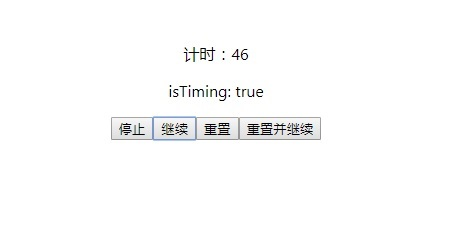
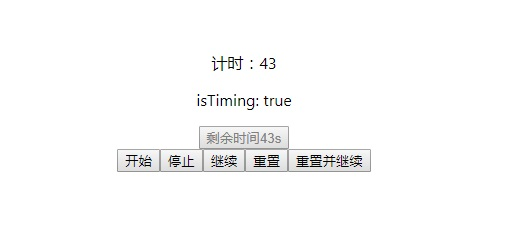
1.  修改测试demo为获取验证码 2.  修改图片 3.  修改计时器不能重复start 4.  修改版本号

Changed region(s): [[0.2178, 0.3621, 0.7156, 0.7543], [0.4044, 0.181, 0.56, 0.3017]]

diff --git a/example/no-ts/src/TimingComponent.js b/example/no-ts/src/TimingComponent.js
@@ -1,40 +1,45 @@
 import React from "react";
 
 export default class TimingComponent extends React.Component {
-  componentDidMount() {
-    const { timer } = this.props;
-    if (timer) {
-      timer.start();
-    }
-  }
+    state = {
+        isGetting: false
+    };
 
-  render() {
-    const { value, isTiming } = this.props.timer;
-    return (
-      <div>
-        <p>计时：{value}</p>
-        <p>isTiming: {isTiming + ""}</p>
-        <input
-          type="button"
-          value="停止"
-          onClick={() => this.props.timer.cancel()}
-        />
-        <input
-          type="button"
-          value="继续"
-          onClick={() => this.props.timer.continue()}
-        />
-        <input
-          type="button"
-          value="重置"
-          onClick={() => this.props.timer.reset()}
-        />
-        <input
-          type="button"
-          value="重置并继续"
-          onClick={() => this.props.timer.reset(true)}
-        />     
-      </div>
-    );
-  }
+    componentDidMount() {
+        const { timer } = this.props;
+        if (timer) {
+            // timer.start();
+        }
+    }
+    onGetCode = () => {
+        this.setState({ isGetting: true });
+        setTimeout(() => {
+            this.props.timer.start();
+            this.setState({
+                isGetting: false
+            });
+        }, 1500);
+    };
+
+    render() {
+        const { value, isTiming } = this.props.timer;
+        const { isGetting } = this.state;
+
+        const valueText = isGetting ? "获取中" : isTiming ? "剩余时间" + value + "s" : "获取验证码";
+
+        return (
+            <div>
+                <p>计时：{value}</p>
+                <p>isTiming: {isTiming + ""}</p>
+
+                <input disabled={isTiming || isGetting ? true : false} type="button" value={valueText} onClick={this.onGetCode} />
+                <br />
+                <input type="button" value="开始" onClick={() => this.props.timer.start()} />
+                <input type="button" value="停止" onClick={() => this.props.timer.cancel()} />
+                <input type="button" value="继续" onClick={() => this.props.timer.continue()} />
+                <input type="button" value="重置" onClick={() => this.props.timer.reset()} />
+                <input type="button" value="重置并继续" onClick={() => this.props.timer.reset(true)} />
+            </div>
+        );
+    }
 }

diff --git a/example/no-ts/src/time.js b/example/no-ts/src/time.js
@@ -72,12 +72,20 @@ const withTimer = (Component, initialOptions = defaultOptions) => {
         };
 
         start = (opt = {}) => {
-            this.options = Object.assign({}, defaultOptions, initialOptions, opt);
-            const ended = this.judge(this.state.value);
-            if (!ended) {
-                this.setState({ isTiming: true });
-                this.timer.start(this.nextPeriod);
+            if (this.state.isTiming) {
+                return;
             }
+            this.options = Object.assign({}, defaultOptions, initialOptions, opt);
+
+            this.setState(
+                {
+                    value: this.options.start
+                },
+                () => {
+                    this.setState({ isTiming: true });
+                    this.timer.start(this.nextPeriod);
+                }
+            );
         };
 
         reset = autoStart => {

diff --git a/src/index.js b/src/index.js
@@ -72,12 +72,20 @@ const withTimer = (Component, initialOptions = defaultOptions) => {
         };
 
         start = (opt = {}) => {
-            this.options = Object.assign({}, defaultOptions, initialOptions, opt);
-            const ended = this.judge(this.state.value);
-            if (!ended) {
-                this.setState({ isTiming: true });
-                this.timer.start(this.nextPeriod);
+            if (this.state.isTiming) {
+                return;
             }
+            this.options = Object.assign({}, defaultOptions, initialOptions, opt);
+
+            this.setState(
+                {
+                    value: this.options.start
+                },
+                () => {
+                    this.setState({ isTiming: true });
+                    this.timer.start(this.nextPeriod);
+                }
+            );
         };
 
         reset = autoStart => {

diff --git a/example/no-ts/src/App.js b/example/no-ts/src/App.js
@@ -6,8 +6,8 @@ import TimingComponent from "./TimingComponent";
 import withTimer from "./time";
 
 const TimingCom = withTimer(TimingComponent, {
-    interval: 100,
-    start: 30,
+    interval: 50,
+    start: 60,
     end: 0
 });
 
@@ -20,7 +20,7 @@ class App extends Component {
                     marginTop: 120
                 }}
             >
-                <TimingCom onTimingEnd={val => alert("ended:" + val)} />
+                <TimingCom />
             </div>
         );
     }

diff --git a/README.md b/README.md
@@ -90,43 +90,49 @@ TimingComponent.js
 import React from "react";
 
 export default class TimingComponent extends React.Component {
-  componentDidMount() {
-    const { timer } = this.props;
-    if (timer) {
-      timer.start();
-    }
-  }
+    state = {
+        isGetting: false
+    };
 
-  render() {
-    const { value, isTiming } = this.props.timer;
-    return (
-      <div>
-        <p>计时：{value}</p>
-        <p>isTiming: {isTiming + ""}</p>
-        <input
-          type="button"
-          value="停止"
-          onClick={() => this.props.timer.cancel()}
-        />
-        <input
-          type="button"
-          value="继续"
-          onClick={() => this.props.timer.continue()}
-        />
-        <input
-          type="button"
-          value="重置"
-          onClick={() => this.props.timer.reset()}
-        />
-        <input
-          type="button"
-          value="重置并继续"
-          onClick={() => this.props.timer.reset(true)}
-        />
-      </div>
-    );
-  }
+    componentDidMount() {
+        const { timer } = this.props;
+        if (timer) {
+            // timer.start();
+        }
+    }
+    onGetCode = () => {
+        this.setState({ isGetting: true });
+        setTimeout(() => {
+            this.props.timer.start();
+            this.setState({
+                isGetting: false
+            });
+        }, 1500);
+    };
+
+    render() {
+        const { value, isTiming } = this.props.timer;
+        const { isGetting } = this.state;
+
+        const valueText = isGetting ? "获取中" : isTiming ? "剩余时间" + value + "s" : "获取验证码";
+
+        return (
+            <div>
+                <p>计时：{value}</p>
+                <p>isTiming: {isTiming + ""}</p>
+
+                <input disabled={isTiming || isGetting ? true : false} type="button" value={valueText} onClick={this.onGetCode} />
+                <br />
+                <input type="button" value="开始" onClick={() => this.props.timer.start()} />
+                <input type="button" value="停止" onClick={() => this.props.timer.cancel()} />
+                <input type="button" value="继续" onClick={() => this.props.timer.continue()} />
+                <input type="button" value="重置" onClick={() => this.props.timer.reset()} />
+                <input type="button" value="重置并继续" onClick={() => this.props.timer.reset(true)} />
+            </div>
+        );
+    }
 }
+
 ```
 
 ![示例图](/docs/s.jpg)
